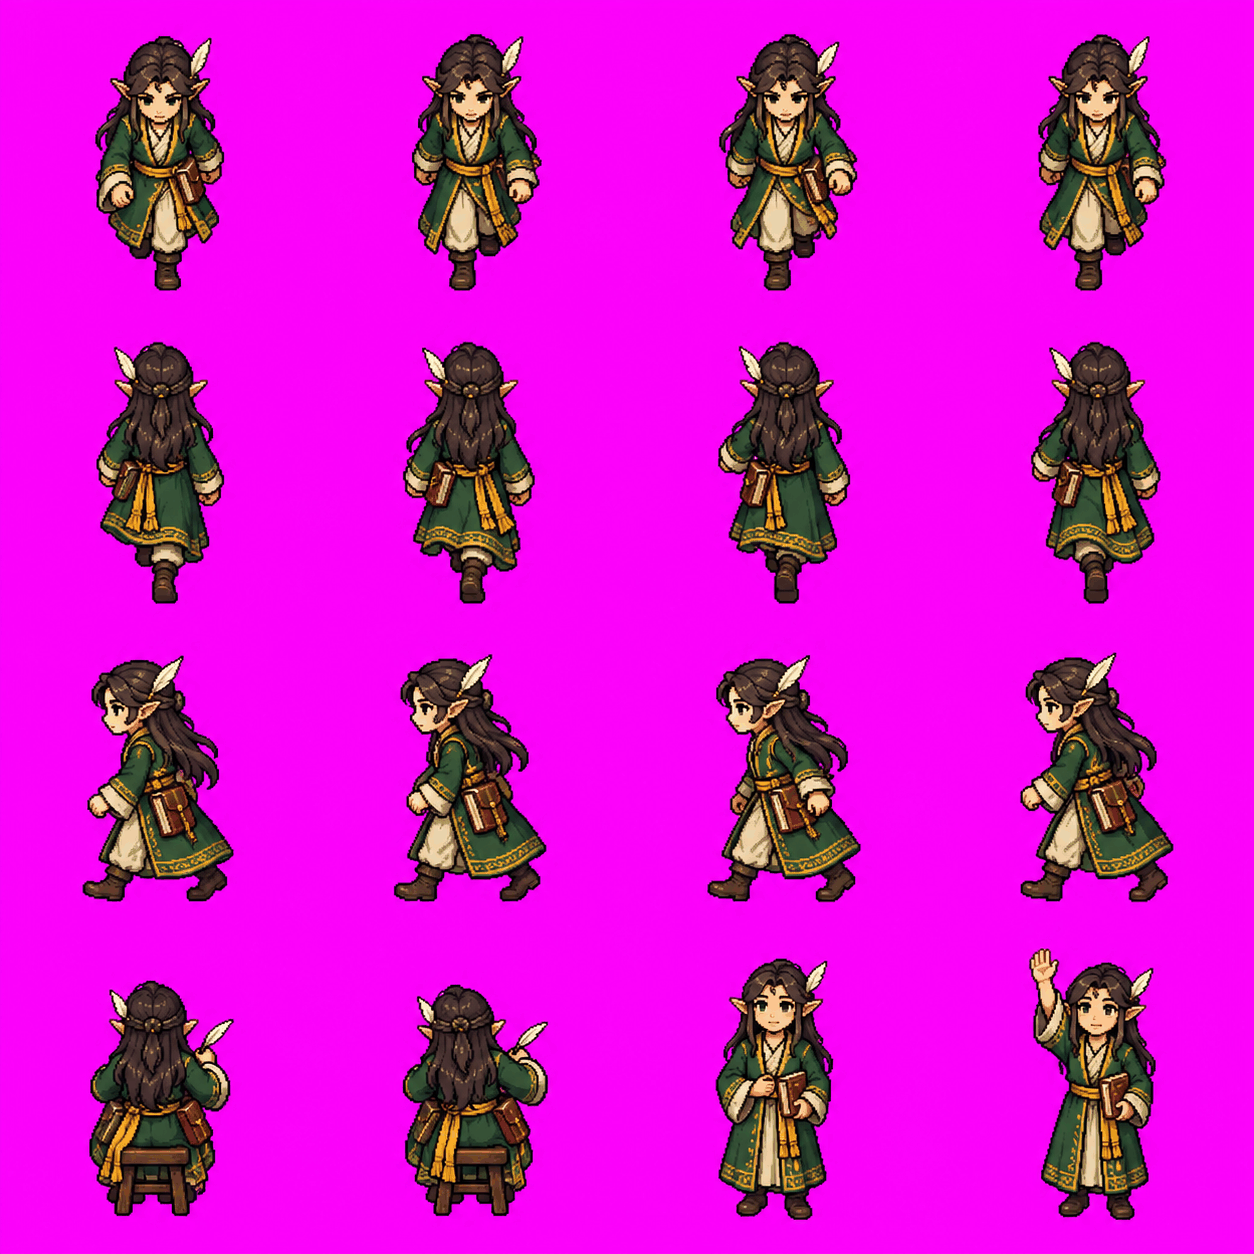
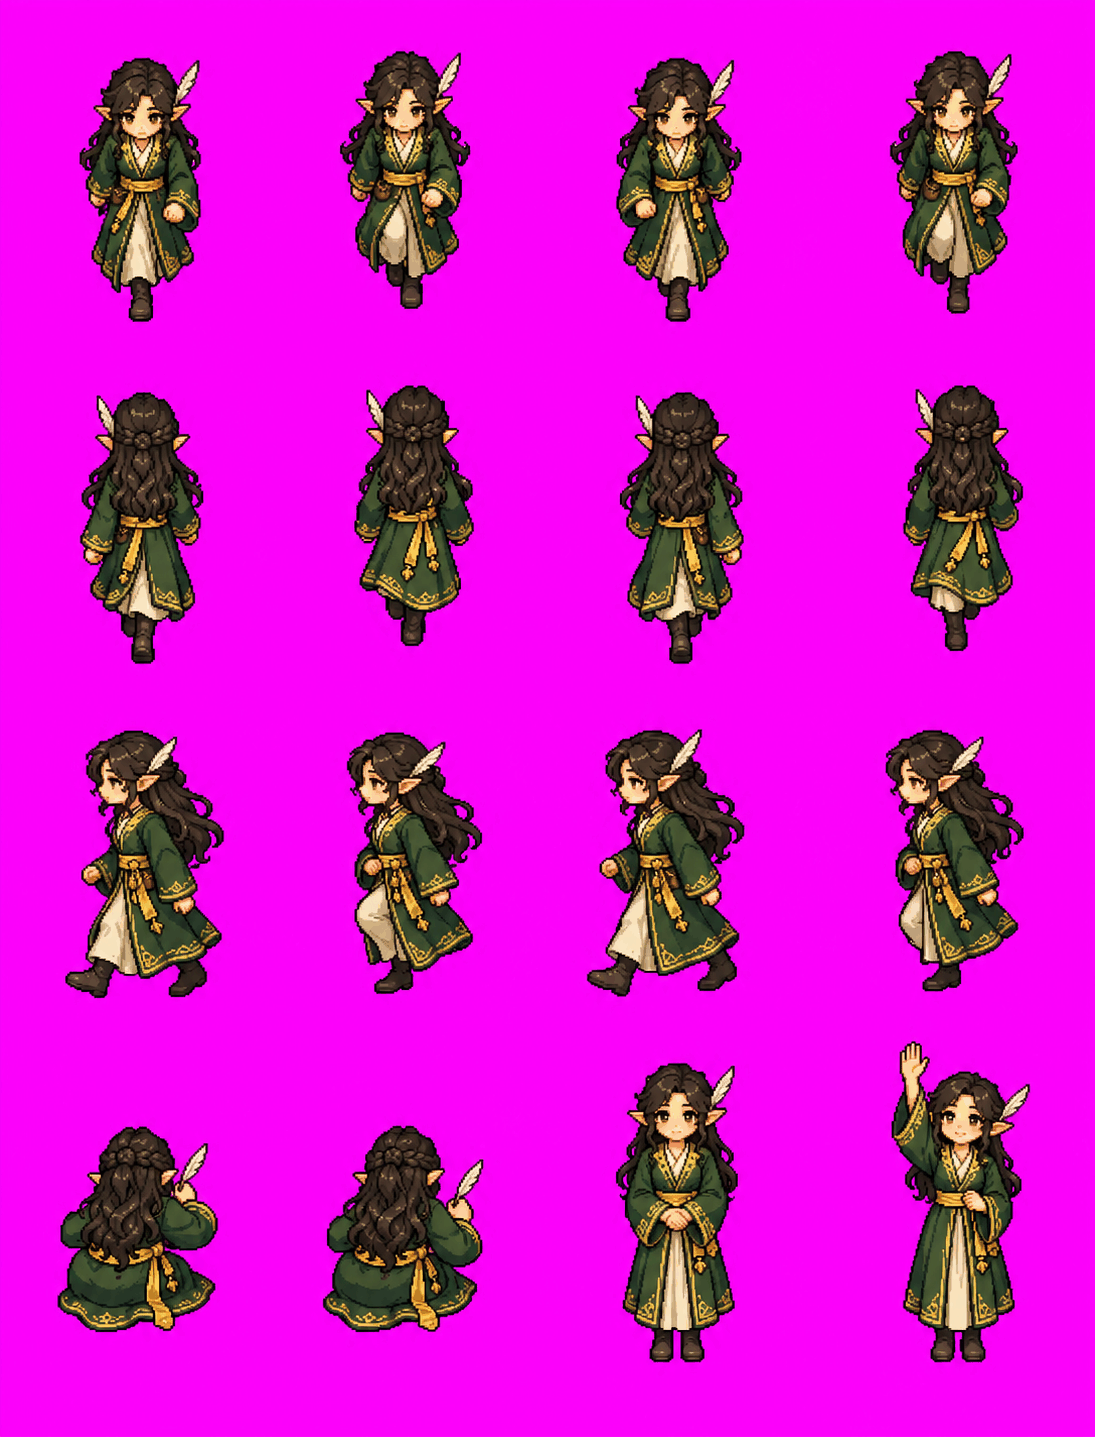
docs(agent-world): headquarters prototype round 3, traced walk grids, new walk cycles, seated agents on painted stools

diff --git a/.ledger/202610171741-guildworld/prototypes/headquarters/src/place.js b/.ledger/202610171741-guildworld/prototypes/headquarters/src/place.js
@@ -33,9 +33,9 @@ export class PlaceScene extends Phaser.Scene {
 		this.T = T;
 		this.coarse = new Grid(place.cols, place.rows);
 		this.fine = new Grid(place.cols * FINE, place.rows * FINE);
-		for (const [x, y, w, h] of place.blocked) {
-			this.coarse.block([x, y, w, h]);
-			this.fine.block([x * FINE, y * FINE, w * FINE, h * FINE]);
+		for (const r of place.blocked) {
+			this.coarse.block(cells(r, 1));
+			this.fine.block(cells(r, FINE));
 		}
 		closeChat();
 		showHover([]);
@@ -44,7 +44,8 @@ export class PlaceScene extends Phaser.Scene {
 		this.people = [];
 		for (const p of place.people) this.addPerson(p);
 		const start = place.entries[this.entry] ?? place.entries.start;
-		this.avatar = this.makeCharacter(app.avatarLook, this.tileCenter(start), STILL.up);
+		this.avatar = this.makeCharacter(app.avatarLook, this.pt(start), STILL.up);
+		if (app.showGrid) this.drawGrid();
 		this.cameras.main.startFollow(this.avatar, true, 0.1, 0.1);
 		this.applyZoom();
 		this.cameras.main.fadeIn(220, 20, 14, 24);
@@ -70,13 +71,24 @@ export class PlaceScene extends Phaser.Scene {
 		this.cameras.main.setBounds(Math.min(0, (w - vw) / 2), Math.min(0, (h - vh) / 2), Math.max(w, vw), Math.max(h, vh));
 	}
 
-	tileCenter([x, y]) {
-		return { x: (x + 0.5) * this.T, y: (y + 0.5) * this.T };
+	/** A place coordinate in tiles (fractions allowed) as a world point. */
+	pt([x, y]) {
+		return { x: x * this.T, y: y * this.T };
+	}
+
+	/** The fine walk grid over the painting, blocked cells in red: a prototype aid for tracing furniture. */
+	drawGrid() {
+		const g = this.add.graphics().setDepth(99990);
+		const u = this.T / FINE;
+		for (let y = 0; y < this.fine.h; y++)
+			for (let x = 0; x < this.fine.w; x++) {
+				g.fillStyle(this.fine.free(x, y) ? 0x40ff80 : 0xff3030, this.fine.free(x, y) ? 0.08 : 0.28).fillRect(x * u + 1, y * u + 1, u - 2, u - 2);
+			}
 	}
 
 	makeCharacter(look, at, frame) {
-		const shadow = this.add.ellipse(at.x, at.y + this.T * 0.42, this.T * 0.62, this.T * 0.2, 0x000000, 0.28);
-		const sprite = this.add.sprite(at.x, at.y + this.T * 0.45, look, frame).setOrigin(0.5, 1);
+		const shadow = this.add.ellipse(at.x, at.y, this.T * 0.62, this.T * 0.2, 0x000000, 0.28);
+		const sprite = this.add.sprite(at.x, at.y, look, frame).setOrigin(0.5, 1);
 		sprite.setScale((PERSON_TILES * this.T) / STANDING);
 		sprite.look = look;
 		sprite.shadow = shadow;
@@ -88,19 +100,26 @@ export class PlaceScene extends Phaser.Scene {
 
 	/** Put a character's sprite and shadow at its feet position `pos`, sorted by depth. */
 	settle(sprite) {
-		sprite.setPosition(sprite.pos.x, sprite.pos.y + this.T * 0.45);
-		sprite.shadow.setPosition(sprite.pos.x, sprite.pos.y + this.T * 0.42).setDepth(sprite.y - 1);
-		sprite.setDepth(sprite.y);
+		sprite.setPosition(sprite.pos.x, sprite.pos.y - (sprite.lift ?? 0));
+		sprite.shadow.setPosition(sprite.pos.x, sprite.pos.y - 2).setDepth(sprite.pos.y - 1);
+		sprite.setDepth(sprite.pos.y);
 	}
 
 	addPerson({ session, at, look, pose = "stand" }) {
 		const s = session;
+		// Asking you, an agent stands up beside its stool rather than on it.
+		if (pose === "sit" && s.status === "waiting") at = [at[0] + 0.7, at[1] + 0.15];
 		const frame = pose === "sit" ? (s.status === "waiting" ? STILL.ask : STILL.sitA) : s.status === "waiting" ? STILL.ask : STILL.stand;
-		const sprite = this.makeCharacter(look, this.tileCenter(at), frame);
+		const sprite = this.makeCharacter(look, this.pt(at), frame);
 		sprite.session = s;
-		sprite.tile = [...at];
-		this.coarse.block([at[0], at[1], 1, 1]);
-		this.fine.block([at[0] * FINE, at[1] * FINE, FINE, FINE]);
+		if (pose === "sit" && s.status !== "waiting") {
+			// Seated frames draw no seat: lift the body onto the stool painted at the spot, whose shadow is painted too.
+			sprite.lift = -this.T * 0.32;
+			sprite.shadow.setVisible(false);
+			this.settle(sprite);
+		}
+		this.coarse.block([Math.floor(at[0]), Math.floor(at[1]), 1, 1]);
+		this.fine.block(cells([at[0] - 0.3, at[1] - 0.3, 0.6, 0.5], FINE));
 		if (pose === "sit" && s.status === "busy") sprite.play(`${look}-work`);
 		const badge = this.add.container(sprite.x, sprite.y - sprite.displayHeight - 8).setDepth(100000);
 		this.drawBadge(badge, s);
@@ -136,18 +155,19 @@ export class PlaceScene extends Phaser.Scene {
 	actionsAt(pointer) {
 		if (menuOpen()) return [];
 		const world = this.pointerWorld(pointer);
-		const tile = [Math.floor(world.x / this.T), Math.floor(world.y / this.T)];
+		const tx = world.x / this.T;
+		const ty = world.y / this.T;
 		const actions = [];
 		const person = this.people.find((p) => p.sprite.getBounds().contains(world.x, world.y));
 		if (person) {
 			const s = person.session;
-			actions.push({ verb: "Talk-to", target: s.name, kind: "npc", run: () => this.approach(person.sprite.tile, () => this.talk(s), true) });
+			actions.push({ verb: "Talk-to", target: s.name, kind: "npc", run: () => this.approach(person.sprite.pos, () => this.talk(s), true) });
 			actions.push({ verb: "Examine", target: s.name, kind: "npc", run: () => this.examine(s) });
 		}
 		for (const h of this.hotspots) {
 			const [x, y, w, hh] = h.rect;
-			if (tile[0] >= x && tile[0] < x + w && tile[1] >= y && tile[1] < y + hh)
-				for (const v of h.verbs) actions.push({ verb: v.verb, target: h.name, run: () => this.approach(h.standAt, () => v.run(this), false, true) });
+			if (tx >= x && tx < x + w && ty >= y && ty < y + hh)
+				for (const v of h.verbs) actions.push({ verb: v.verb, target: h.name, run: () => this.approach(this.pt(h.standAt), () => v.run(this), false, true) });
 		}
 		actions.push({ verb: "Walk here", run: () => this.walkTo(world) });
 		return actions;
@@ -175,20 +195,32 @@ export class PlaceScene extends Phaser.Scene {
 		this.route(world);
 	}
 
-	/** Walk next to a target, then act: the RuneScape rhythm. */
+	/** Walk next to a target (a world point), then act: the RuneScape rhythm. */
 	approach(target, act, person, exact) {
 		closeChat();
-		this.marker(this.tileCenter(target), true);
-		const stand = exact ? target : this.coarse.besideNearest(target, this.avatarTile());
+		this.marker(target, true);
+		const stand = exact ? target : this.beside(target);
 		if (!stand) return;
-		this.route(this.tileCenter(stand), () => {
-			if (person) this.faceToward(this.avatar, this.tileCenter(target));
+		this.route(stand, () => {
+			if (person) this.faceToward(this.avatar, target);
 			act();
 		});
 	}
 
-	avatarTile() {
-		return [Math.floor(this.avatar.pos.x / this.T), Math.floor(this.avatar.pos.y / this.T)];
+	/** An open spot about a step from `target`, on the side nearest the avatar. */
+	beside(target) {
+		const u = this.T / FINE;
+		let best = null;
+		for (let y = 0; y < this.fine.h; y++)
+			for (let x = 0; x < this.fine.w; x++) {
+				if (!this.fine.free(x, y)) continue;
+				const c = { x: (x + 0.5) * u, y: (y + 0.5) * u };
+				const d = Math.hypot(c.x - target.x, c.y - target.y) / this.T;
+				if (d < 0.55 || d > 1.3) continue;
+				const score = d + Math.hypot(c.x - this.avatar.pos.x, c.y - this.avatar.pos.y) / this.T / 10;
+				if (!best || score < best.score) best = { c, score };
+			}
+		return best?.c ?? null;
 	}
 
 	route(goal, then) {
@@ -280,6 +312,13 @@ export class PlaceScene extends Phaser.Scene {
 	note(text) {
 		say("", text);
 	}
+}
+
+/** The cells of a grid with `per` cells per tile that an area [x, y, w, h] in tiles covers (by cell centre). */
+function cells([x, y, w, h], per) {
+	const x0 = Math.round(x * per);
+	const y0 = Math.round(y * per);
+	return [x0, y0, Math.round((x + w) * per) - x0, Math.round((y + h) * per) - y0];
 }
 
 /** The free cell nearest to `cell`, searched ring by ring. */

diff --git a/.ledger/202610171741-guildworld/prototypes/headquarters/src/places.js b/.ledger/202610171741-guildworld/prototypes/headquarters/src/places.js
@@ -1,5 +1,7 @@
 // PROTOTYPE: the hand-authored places: painted interiors (hall, gallery, wing rooms) and one tiled exterior
 // (the lane outside). Walk grids, spots, and doors are written by hand over each painting, in tiles of T px.
+// Coordinates are in tiles and may be fractional: blocked areas are [x, y, w, h] traced around furniture over a
+// half-tile grid, and spots, entries, and stand points are the feet position of a character.
 import { tileIndex, tilesetCanvas } from "./terrain.js";
 import { hash } from "./util.js";
 
@@ -23,8 +25,8 @@ function wingDoorColumns(n) {
 
 export function hall(scene, world) {
 	const people = [];
-	if (world.coordinator) people.push({ session: world.coordinator, at: [14, 5], look: look(world.coordinator) });
-	const commonSpots = [[3, 10], [8, 9], [8, 11], [9, 12], [10, 9]];
+	if (world.coordinator) people.push({ session: world.coordinator, at: [14.6, 5.3], look: look(world.coordinator) });
+	const commonSpots = [[3.6, 10.4], [8.7, 9.4], [8.6, 11.4], [9.6, 12.6], [10.6, 9.6]];
 	world.common.forEach((s, i) => commonSpots[i] && people.push({ session: s, at: commonSpots[i], face: "left", look: look(s) }));
 	return {
 		title: "Guild hall",
@@ -33,13 +35,14 @@ export function hall(scene, world) {
 		rows: 20,
 		drawBackdrop: painted("hall", 30 * T, 20 * T),
 		blocked: [
-			[0, 0, 30, 4], [11, 4, 8, 1], [0, 4, 2, 11], [2, 4, 4, 3], [6, 5, 4, 3], [2, 7, 3, 2], [5, 8, 3, 2], [5, 7, 2, 1],
-			[2, 11, 6, 4], [0, 15, 30, 5], [23, 4, 3, 4], [26, 4, 4, 11],
+			[0, 0, 30, 4], [12.3, 3, 5.6, 2], [9, 3.4, 1.6, 0.8], [0, 4, 1.6, 11], [1.8, 4, 4.4, 3.2], [5, 4, 2.6, 1.7],
+			[6.3, 5.8, 3.5, 2.2], [2.4, 7.3, 1.6, 1.7], [4.9, 7.6, 2.1, 1.1], [5.6, 8.4, 2, 1.5], [2.2, 11, 4.8, 3],
+			[0, 14.6, 30, 5.4], [23, 4, 3, 4], [26, 4, 4, 11],
 		],
-		entries: { start: [15, 12], lane: [15, 14], gallery: [25, 9] },
+		entries: { start: [15, 12.5], lane: [15, 14.2], gallery: [25.4, 9] },
 		hotspots: [
-			{ name: "Archway to the wings", rect: [26, 5, 3, 6], standAt: [25, 9], verbs: [{ verb: "Walk-through", run: (sc) => sc.go("gallery", "hall") }] },
-			{ name: "Hall doors", rect: [13, 15, 4, 3], standAt: [15, 14], verbs: [{ verb: "Open", run: (sc) => sc.go("lane", "hall") }] },
+			{ name: "Archway to the wings", rect: [26.1, 4.5, 1.8, 6.5], standAt: [25.4, 9], verbs: [{ verb: "Walk-through", run: (sc) => sc.go("gallery", "hall") }] },
+			{ name: "Hall doors", rect: [13, 15, 4.2, 3.6], standAt: [15, 14.2], verbs: [{ verb: "Open", run: (sc) => sc.go("lane", "hall") }] },
 		],
 		people,
 	};
@@ -82,15 +85,15 @@ export function gallery(scene, world) {
 			}
 		},
 		blocked: [[0, 0, cols, 7], [0, 12, cols, 2]],
-		entries: { start: [2, 8], hall: [2, 8], ...Object.fromEntries(doors.filter((d) => d.wing).map((d) => [`wing:${d.wing.repo}`, [d.col, 7]])) },
+		entries: { start: [2, 8.5], hall: [2, 8.5], ...Object.fromEntries(doors.filter((d) => d.wing).map((d) => [`wing:${d.wing.repo}`, [d.x / T, 7.5]])) },
 		hotspots: [
-			{ name: "Archway to the hall", rect: [0, 2, 3, 5], standAt: [1, 7], verbs: [{ verb: "Walk-through", run: (sc) => sc.go("hall", "gallery") }] },
+			{ name: "Archway to the hall", rect: [0.4, 2.5, 1.9, 4.5], standAt: [1.6, 7.5], verbs: [{ verb: "Walk-through", run: (sc) => sc.go("hall", "gallery") }] },
 			...doors
 				.filter((d) => d.wing)
 				.map((d) => ({
 					name: `${d.wing.repo} wing`,
-					rect: [d.col - 1, 2, 3, 5],
-					standAt: [d.col, 7],
+					rect: [d.x / T - 0.9, 2.7, 1.8, 3.6],
+					standAt: [d.x / T, 7.5],
 					verbs: [
 						{ verb: "Enter", run: (sc) => sc.go("wing", "gallery", { repo: d.wing.repo }) },
 						...(d.wing.agents.length ? [] : [{ verb: "Examine", run: (sc) => sc.note(`${d.wing.repo}: closed up; nobody works here now.`) }]),
@@ -103,14 +106,19 @@ export function gallery(scene, world) {
 
 const WING_ROOMS = {
 	small: {
-		image: "wing-small", cols: 16, rows: 16, banner: [373, 18], door: [7, 13, 3, 3], stand: [8, 12],
-		blocked: [[0, 0, 16, 5], [0, 5, 2, 7], [1, 11, 2, 2], [12, 4, 4, 2], [14, 5, 2, 8], [0, 13, 16, 3], [2, 5, 5, 2], [9, 5, 5, 2], [6, 8, 4, 2]],
-		spots: [[4, 7], [11, 7], [7, 10]],
+		image: "wing-small", cols: 16, rows: 16, banner: [384, 18], door: [7.1, 12.9, 1.8, 1.8], stand: [8, 12.2],
+		blocked: [[0, 0, 16, 4.3], [0, 4, 2.2, 1], [0, 4, 1.6, 8.5], [0, 11.5, 2.2, 1], [13.6, 3, 2.4, 2.2], [14.2, 6.5, 1.8, 5.3], [14.6, 4, 1.4, 8.5], [13.7, 11.6, 2.3, 1], [0, 12.6, 7, 3.4], [9, 12.6, 7, 3.4], [7, 14.6, 2, 1.4], [2.6, 5.4, 3.5, 1.3], [10, 5.4, 3.5, 1.3], [6.1, 8.4, 3.7, 1.3]],
+		spots: [[4.2, 7.1], [11.7, 7.1], [7.4, 10.2]],
 	},
 	large: {
-		image: "wing-large", cols: 30, rows: 20, banner: [728, 30], door: [14, 15, 3, 4], stand: [15, 14],
-		blocked: [[0, 0, 30, 5], [0, 5, 3, 15], [27, 5, 3, 15], [0, 15, 30, 5], [4, 6, 5, 2], [10, 6, 5, 2], [16, 6, 5, 2], [21, 6, 5, 2], [11, 9, 8, 3], [3, 11, 6, 2], [22, 11, 5, 2], [9, 12, 6, 2], [16, 12, 5, 2]],
-		spots: [[5, 8], [11, 8], [17, 8], [23, 8], [5, 13], [24, 13], [11, 14], [17, 14]],
+		image: "wing-large", cols: 30, rows: 20, banner: [728, 30], door: [14.2, 17, 1.8, 2.5], stand: [15.1, 15.8],
+		blocked: [
+			[0, 0, 30, 5], [0, 4, 1.5, 12], [1.5, 4.5, 2, 1.5], [26.5, 4, 3.5, 3], [29, 4, 1, 14], [27.5, 13, 2.5, 5],
+			[0, 15.6, 14.1, 4.4], [16.2, 15.6, 13.8, 4.4], [14, 19.5, 2.3, 0.5],
+			[4.5, 6, 4, 1.5], [10, 6, 4.3, 1.5], [15.9, 6, 4.1, 1.5], [21.4, 6, 4, 1.6], [11.8, 9, 6.9, 2.5],
+			[3.3, 10.8, 4.7, 1.6], [22, 10.6, 4.3, 1.8], [9.6, 12.6, 4.4, 1.6], [16, 12.6, 4.8, 1.7],
+		],
+		spots: [[5.9, 8.1], [11.3, 8.1], [17.3, 8.1], [23.1, 8.1], [5.2, 13.1], [24.2, 13.1], [11.2, 15], [17.6, 15]],
 	},
 };
 
@@ -149,7 +157,7 @@ export function lane(scene, world) {
 		["lamp", 10, 11], ["lamp", 16, 11], ["lamp", 6, 14], ["lamp", 20, 14], ["bench", 7, 11], ["bench", 18, 11],
 		["flowerbed", 9, 9], ["flowerbed", 16, 9], ["signpost", 14, 15], ["barrel", 17, 7],
 	];
-	const independentSpots = [[8, 13], [20, 12], [22, 13]];
+	const independentSpots = [[8.5, 13.5], [20.5, 12.5], [22.5, 13.5]];
 	return {
 		title: "The lane outside",
 		tile: T,
@@ -185,8 +193,8 @@ export function lane(scene, world) {
 			}
 		},
 		blocked: [[8, 1, 10, 7], ...decor.map(([key, x, y]) => (["oak", "blossom"].includes(key) ? [x - 1, y, 3, 1] : [x, y, 1, 1]))],
-		entries: { start: [13, 10], hall: [13, 9] },
-		hotspots: [{ name: "Guild hall", rect: [12, 6, 2, 2], standAt: [13, 8], verbs: [{ verb: "Enter", run: (sc) => sc.go("hall", "lane") }] }],
+		entries: { start: [13, 10.5], hall: [13, 9.2] },
+		hotspots: [{ name: "Guild hall", rect: [12.4, 6.6, 1.3, 1.5], standAt: [13, 8.6], verbs: [{ verb: "Enter", run: (sc) => sc.go("hall", "lane") }] }],
 		people: world.independent.slice(0, independentSpots.length).map((s, i) => ({ session: s, at: independentSpots[i], look: look(s) })),
 	};
 }

diff --git a/.ledger/202610171741-guildworld/prototypes/headquarters/index.html b/.ledger/202610171741-guildworld/prototypes/headquarters/index.html
@@ -49,6 +49,7 @@ of wings, wing rooms) and a tiled exterior, walked RuneScape-style. Run ./serve.
 			<button data-act="wing">+ remembered wing</button>
 			<button data-act="forget">Forget wings</button>
 			<button data-act="movement" id="movement">Movement: smooth</button>
+			<button data-act="grid">Show walk grid</button>
 		</div>
 		<div id="state"></div>
 		<div id="help">Left click: walk or the default action. Right click: all actions. Wheel: zoom.</div>

diff --git a/.ledger/202610171741-guildworld/prototypes/headquarters/src/main.js b/.ledger/202610171741-guildworld/prototypes/headquarters/src/main.js
@@ -83,6 +83,10 @@ const actions = {
 		app.movement = app.movement === "smooth" ? "tiles" : "smooth";
 		document.getElementById("movement").textContent = `Movement: ${app.movement}`;
 	},
+	grid: () => {
+		app.showGrid = !app.showGrid;
+		restart();
+	},
 	forget: () => {
 		app.remembered = [];
 		restart();

diff --git a/.ledger/202610171741-guildworld/prototypes/headquarters/README.md b/.ledger/202610171741-guildworld/prototypes/headquarters/README.md
@@ -22,6 +22,16 @@ You start in the guild hall. **Left click** walks to a tile, or does the default
 - **Movement:** two modes, switched in the prototype controls. **Smooth** (default): an A* path on a grid twice as fine as the tiles, string-pulled into straight runs that keep clear of furniture, walked continuously at 175 px/s, ending exactly where you clicked. **Tiles:** RuneScape's tile-by-tile steps on the place's tile grid at 120 px/s. In both, a click on furniture walks to the nearest open floor, and a new click retargets at once.
 - **Cost:** 14 Codex images in parallel, about two and a half minutes; about 1.4 MB of cut sprites and portraits.
 
+## Round 3: walking room and seats
+
+After the operator's verdict on round 2 (side walk stiff, pathing still poor, characters could not pass between desks, double stools, oversized door targets):
+
+- **Walk cycles regenerated** with a four-phase cycle spelled out per frame (contact, passing with a lifted knee, contact, passing), so the side walk now closes its legs between strides. Portraits kept.
+- **Seated frames draw no seat:** a working agent sits on the stool painted at its spot.
+- **Furniture traced on a half-tile grid:** every room's blocked areas were re-traced over a grid laid on the painting (fractional tiles), so aisles between desks are open; characters block only their own footprint. **Show walk grid** in the prototype controls draws the grid (blocked in red).
+- **Door targets traced to the door itself**, and stand points moved onto open floor.
+- **Asking agents stand beside their stool.**
+
 ## What to try
 
 1. **The hall:** talk to Orla, the coordinator, at the head desk (portrait and typed line); examine the agent in the common room (an agent outside any repository). Walk around the furniture and click on it; switch **Movement** between smooth and tiles and compare.

diff --git a/.ledger/202610171741-guildworld/decisions/22-characters-and-portraits.md b/.ledger/202610171741-guildworld/decisions/22-characters-and-portraits.md
@@ -11,3 +11,4 @@ What do characters look like, how do they move and work, and what portrait appea
 The [headquarters prototype](../prototypes/headquarters/README.md) borrowed low-resolution town sprites and they killed the experience. Decide the sprite resolution and style that sit well in the painted interiors (somewhat higher definition is affordable), the animation set (walking that looks good, sitting and working at a table, idle life), how a character's look is chosen and kept per session, and the dialogue portrait: a RuneScape-style talking head beside the dialogue box, or a larger JRPG-style portrait with expressions on the left (the operator accepts either). Decide the pipeline that produces them per theme. The operator judges the feel.
 
 Prototype (2026-10-18): round 2 of [prototypes/headquarters/](../prototypes/headquarters/README.md); verdict pending.
+Round 2 verdict (operator, 2026-10-18): continued progress; portraits beside the dialogue are great; the side walk had no in-between frames; pathing was still poor (the avatar could not pass between desks in the large room); painted stools doubled with the sprites' own; door targets were too big. Round 3 addresses these; verdict pending.

diff --git a/.ledger/202610171741-guildworld/decisions/23-movement-and-pathing.md b/.ledger/202610171741-guildworld/decisions/23-movement-and-pathing.md
@@ -11,3 +11,4 @@ What makes walking feel right, given that RuneScape-style click-to-walk is the m
 The [headquarters prototype](../prototypes/headquarters/README.md) used an 8-direction tile path over a coarse hand-authored grid, one tile per 0.3 s, and the operator judged it subpar. Decide the walk grid resolution and how walkable areas are authored over a painting, path shape and smoothing, speed and turning, what happens on an unreachable click, how the avatar passes other characters, and how this stays true to RuneScape's feel. The operator judges the feel.
 
 Prototype (2026-10-18): round 2 of [prototypes/headquarters/](../prototypes/headquarters/README.md); verdict pending.
+Round 2 verdict (operator, 2026-10-18): continued progress; portraits beside the dialogue are great; the side walk had no in-between frames; pathing was still poor (the avatar could not pass between desks in the large room); painted stools doubled with the sprites' own; door targets were too big. Round 3 addresses these; verdict pending.
